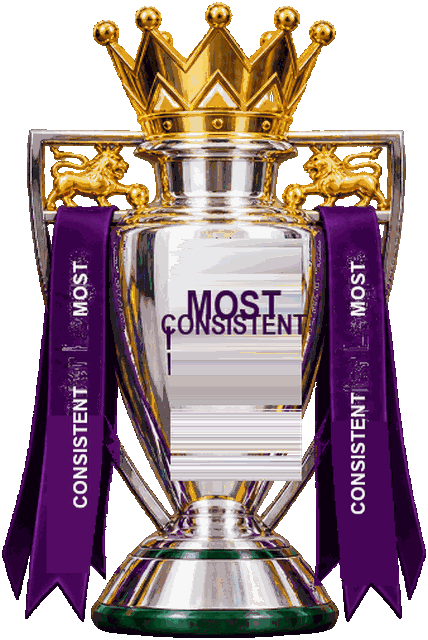
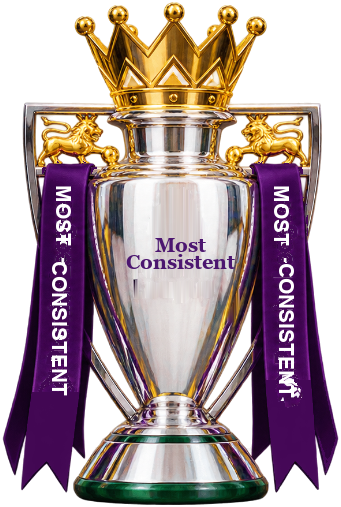
Publish the remaining Hall of Fame trophy photos.
Show the winger trophies, the shared midfielder trophy, and a Most Consistent cup without Premier League branding, and refresh the service worker cache.

Changed region(s): [[0.0, 0.0, 0.9971, 1.0], [0.5279, 0.2663, 0.5572, 0.2959], [0.1173, 0.8876, 0.1466, 0.9172]]

diff --git a/js/hof-shared.js b/js/hof-shared.js
@@ -275,6 +275,18 @@ function keeperGlove() {
     return '<img class="hof-art hof-keeper-glove" src="images/best-keeper-glove.png" alt="" decoding="async">';
 }
 
+function midfielderTrophy() {
+    return '<img class="hof-art hof-midfielder-trophy" src="images/midfielder-defender-trophy.png" alt="" decoding="async">';
+}
+
+function leftWinger() {
+    return '<img class="hof-art hof-left-winger" src="images/best-left-winger.png" alt="" decoding="async">';
+}
+
+function rightWinger() {
+    return '<img class="hof-art hof-right-winger" src="images/best-right-winger.png" alt="" decoding="async">';
+}
+
 function worldCup(uid) {
     return artSvg(`<defs>${gold(uid)}
         <linearGradient id="${uid}m" x1="0" y1="0" x2="0" y2="1"><stop offset="0%" stop-color="#2F8A62"/><stop offset="100%" stop-color="#0C3A28"/></linearGradient>
@@ -511,10 +523,10 @@ export function awardArt(awardId, uid) {
         case 'bestCenterBack': return shieldPlaque(id);
         case 'bestRightBack': return goldenBoot(id + 'r', 'gold', true);
         case 'bestLeftBack': return goldenBoot(id + 'l', 'silver', false);
-        case 'bestAttackingMidfielder': return goldenBall(id);
-        case 'bestDefensiveMidfielder': return goldRimCup(id);
-        case 'bestLeftWinger': return jersey(id, 'left');
-        case 'bestRightWinger': return jersey(id, 'right');
+        case 'bestAttackingMidfielder': return midfielderTrophy();
+        case 'bestDefensiveMidfielder': return midfielderTrophy();
+        case 'bestLeftWinger': return leftWinger();
+        case 'bestRightWinger': return rightWinger();
         case 'bestStriker': return ballTrophy(id);
         case 'mostImproved': return risingTrophy(id);
         default: return majorCup(id);

diff --git a/styles.css b/styles.css
@@ -4934,7 +4934,10 @@ body.admin .hof-bar-status.admin-only {
 .hof-laurels .hof-captain-trophy,
 .hof-laurels .hof-consistent-trophy,
 .hof-laurels .hof-losses-spoon,
-.hof-laurels .hof-keeper-glove {
+.hof-laurels .hof-keeper-glove,
+.hof-laurels .hof-midfielder-trophy,
+.hof-laurels .hof-left-winger,
+.hof-laurels .hof-right-winger {
     width: min(56px, 62%);
     max-height: 90px;
     aspect-ratio: auto;
@@ -5248,7 +5251,10 @@ body.admin .hof-bar-status.admin-only {
 .hof-pick-title .hof-consistent-trophy,
 .hof-pick-title .hof-losses-spoon,
 .hof-pick-title .hof-lvp-boot,
-.hof-pick-title .hof-keeper-glove {
+.hof-pick-title .hof-keeper-glove,
+.hof-pick-title .hof-midfielder-trophy,
+.hof-pick-title .hof-left-winger,
+.hof-pick-title .hof-right-winger {
     object-fit: contain;
 }
 
@@ -5369,6 +5375,18 @@ body.admin .hof-bar-status.admin-only {
     width: 54px;
     height: 62px;
     flex: none;
+}
+
+.vote-award-head .hof-consistent-trophy,
+.vote-award-head .hof-losses-spoon,
+.vote-award-head .hof-lvp-boot,
+.vote-award-head .hof-keeper-glove,
+.vote-award-head .hof-midfielder-trophy,
+.vote-award-head .hof-left-winger,
+.vote-award-head .hof-right-winger {
+    object-fit: contain;
+    height: auto;
+    max-height: 62px;
 }
 
 .vote-award-head h2 {

diff --git a/sw.js b/sw.js
@@ -1,4 +1,4 @@
-const CACHE = 'sweat-squad-v14';
+const CACHE = 'sweat-squad-v15';
 
 const SHELL = [
     './',
@@ -39,6 +39,9 @@ const SHELL = [
     './images/most-losses-spoon.png',
     './images/lvp-baby-boot.png',
     './images/best-keeper-glove.png',
+    './images/midfielder-defender-trophy.png',
+    './images/best-left-winger.png',
+    './images/best-right-winger.png',
     './icons/icon.svg',
     './icons/icon-192.png',
     './icons/apple-touch-icon.png',
